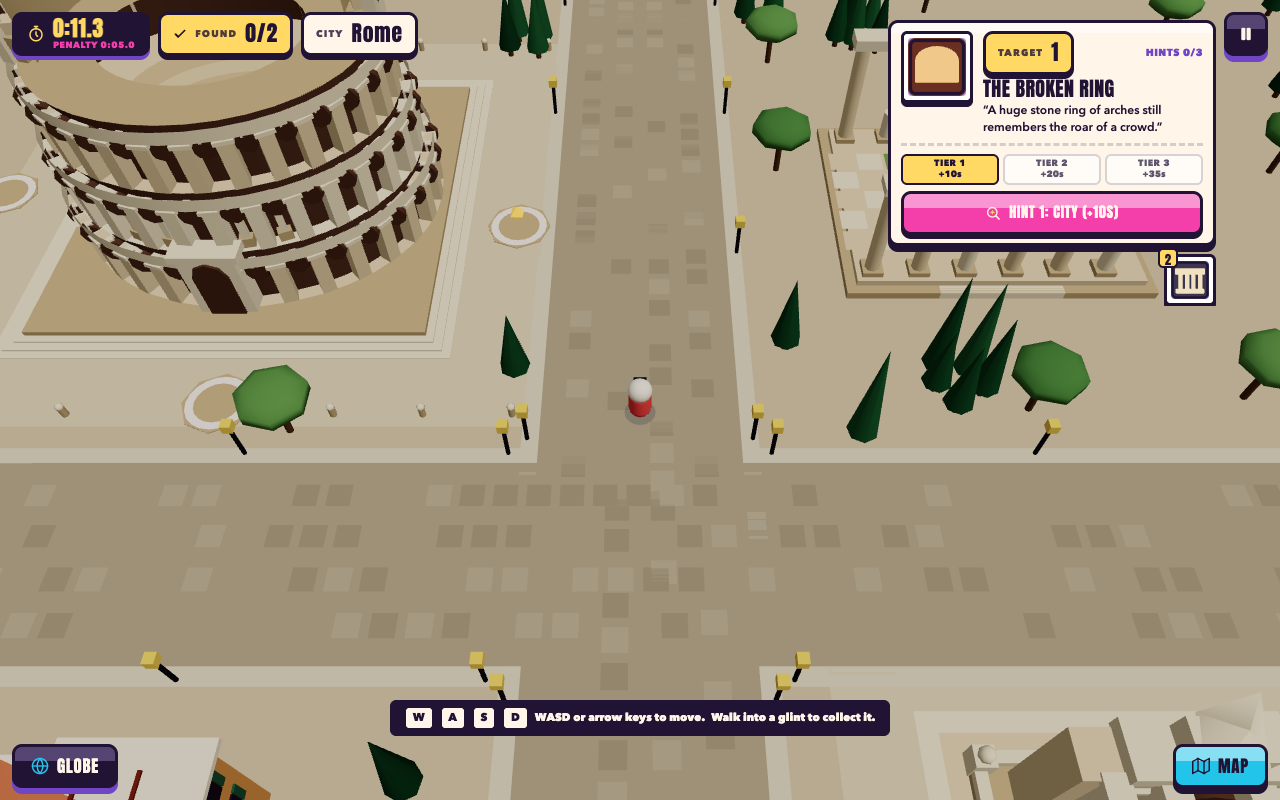
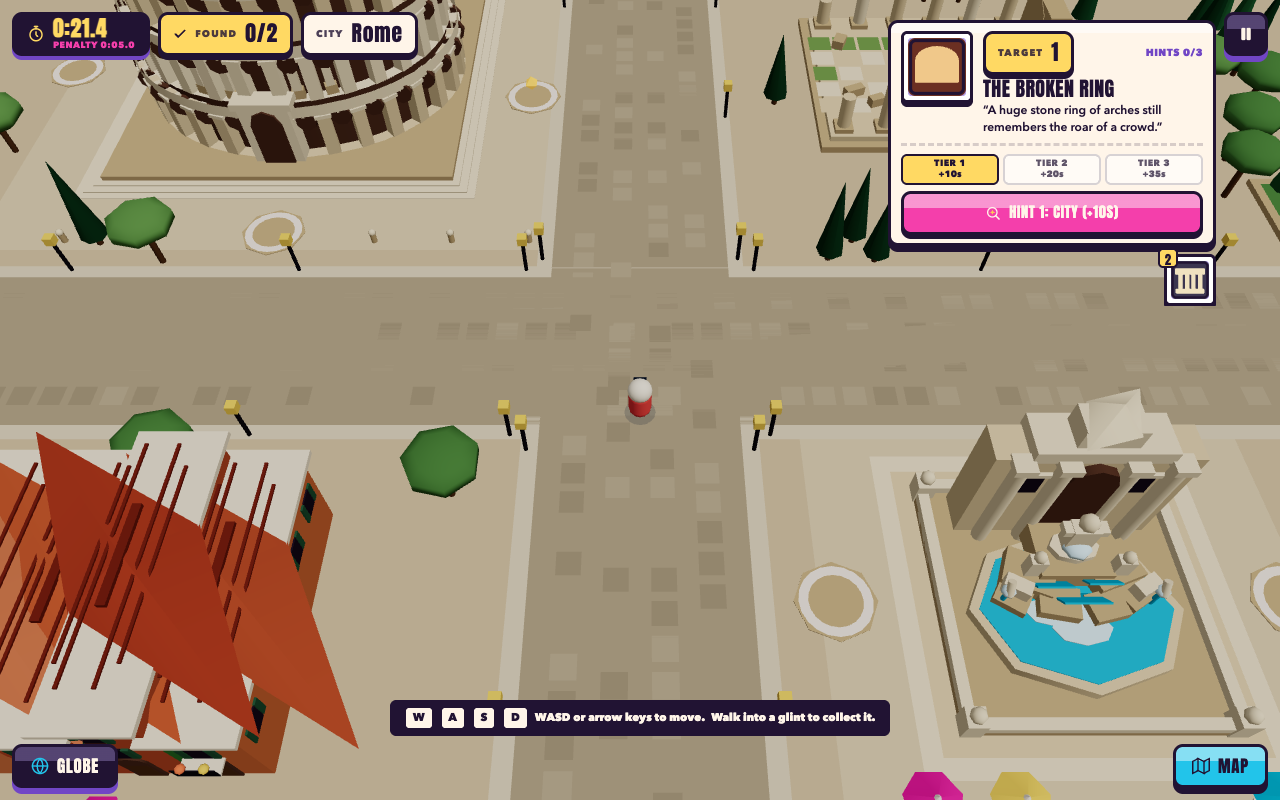
A8: Rome final pass — bounds parapet, campagna outskirts with trees and hills, larger tier statues

diff --git a/src/cities/rome/RomeScene.tsx b/src/cities/rome/RomeScene.tsx
@@ -78,6 +78,8 @@ const SEAT_TONES = ['#e3cda6', '#d6bd93'] as const;
 const IVY_TONE = '#4f8a45';
 const FLOWER_TONES = ['#f43fab', '#ffd963', '#ff8a5b'] as const;
 const RAILING_TONE = '#2b2530';
+const CAMPAGNA_TONE = '#cdb98f';
+const HILL_TONES = ['#9fb07a', '#8ea36e'] as const;
 const SHUTTER_TONE = '#3f6b4f';
 const WINDOW_TONE = '#3a2a3f';
 const TRIM_TONE = '#f9ecd6';
@@ -475,8 +477,8 @@ function buildColosseum(landmark: Landmark, quality: Quality, batches: Batches):
       const szp = cz + Math.sin(angle) * (rz - 0.7 - 0.9);
       const y0 = plinthHeight + TIER_HEIGHT;
       batches.boxes.push({ x: sxp, y: y0 + 0.4, z: szp, sx: 1.0, sy: 0.8, sz: 1.0, ry: -angle, color: TRAVERTINE_DARK });
-      batches.boxes.push({ x: sxp, y: y0 + 1.7, z: szp, sx: 0.7, sy: 1.8, sz: 0.5, ry: -angle, color: TRAVERTINE_LIGHT });
-      batches.spheres.push({ x: sxp, y: y0 + 2.85, z: szp, sx: 0.3, sy: 0.32, sz: 0.3, color: TRAVERTINE_LIGHT });
+      batches.boxes.push({ x: sxp, y: y0 + 2.0, z: szp, sx: 1.0, sy: 2.4, sz: 0.7, ry: -angle, color: TRAVERTINE_LIGHT });
+      batches.spheres.push({ x: sxp, y: y0 + 3.5, z: szp, sx: 0.42, sy: 0.45, sz: 0.42, color: TRAVERTINE_LIGHT });
     }
   }
   // Three shallow steps around the plinth so the base reads from ground level.
@@ -725,6 +727,49 @@ function isClearForProps(definition: CityDefinition, x: number, z: number, keepO
   return Math.hypot(definition.spawn[0] - x, definition.spawn[2] - z) >= SOCKET_CLEAR_RADIUS;
 }
 
+/**
+ * Beyond the playable bounds: a wide campagna ground plane, a low travertine parapet exactly on the
+ * bounds line (the movement clamp already stops the player there) and a scatter of cypresses, pines
+ * and distant hills so the camera never sees the world end. Nothing here is inside the walkable area.
+ */
+function buildOutskirts(bounds: RectXZ, rng: Rng, quality: Quality, batches: Batches): void {
+  const reach = 70;
+  batches.flats.push(flatItem(grow(bounds, reach), -0.01, CAMPAGNA_TONE));
+  const wallHeight = 0.9;
+  const parapets: readonly RectXZ[] = [
+    { minX: bounds.minX - 0.6, maxX: bounds.maxX + 0.6, minZ: bounds.maxZ, maxZ: bounds.maxZ + 0.6 },
+    { minX: bounds.minX - 0.6, maxX: bounds.maxX + 0.6, minZ: bounds.minZ - 0.6, maxZ: bounds.minZ },
+    { minX: bounds.minX - 0.6, maxX: bounds.minX, minZ: bounds.minZ, maxZ: bounds.maxZ },
+    { minX: bounds.maxX, maxX: bounds.maxX + 0.6, minZ: bounds.minZ, maxZ: bounds.maxZ },
+  ];
+  for (const rect of parapets) {
+    batches.boxes.push(boxItem(rect, 0, wallHeight, TRAVERTINE_DARK));
+    batches.boxes.push(boxItem(grow(rect, 0.1), wallHeight, 0.2, TRAVERTINE_LIGHT));
+  }
+  const count = quality === 'low' ? 30 : 90;
+  for (let i = 0; i < count; i += 1) {
+    const side = rng.int(4);
+    const along = rng.next();
+    const out = 4 + rng.next() * (reach - 10);
+    const x = side < 2 ? bounds.minX + along * width(bounds) : side === 2 ? bounds.minX - out : bounds.maxX + out;
+    const z = side >= 2 ? bounds.minZ + along * depth(bounds) : side === 0 ? bounds.maxZ + out : bounds.minZ - out;
+    if (rng.next() < 0.6) {
+      cypress(x, z, 6 + rng.next() * 5, rng.pick(CYPRESS_TONES), batches);
+    } else {
+      const trunk = 3 + rng.next() * 2;
+      batches.cylinders.push({ x, y: trunk / 2, z, sx: 0.6, sy: trunk, sz: 0.6, color: TRUNK_TONE });
+      batches.spheres.push({ x, y: trunk + 1.2, z, sx: 3.4, sy: 1.6, sz: 3.4, color: rng.pick(PINE_TONES) });
+    }
+  }
+  for (let i = 0; i < 10; i += 1) {
+    const angle = (i / 10) * Math.PI * 2 + rng.next() * 0.3;
+    const dist = reach + 20 + rng.next() * 20;
+    const x = centerX(bounds) + Math.cos(angle) * (width(bounds) / 2 + dist);
+    const z = centerZ(bounds) + Math.sin(angle) * (depth(bounds) / 2 + dist);
+    batches.cones.push({ x, y: 4, z, sx: 60 + rng.next() * 40, sy: 8 + rng.next() * 6, sz: 60 + rng.next() * 40, color: HILL_TONES[i % 2]! });
+  }
+}
+
 /** Like isClearForProps but allows piazza edges: only the blocker rectangles, roads, sockets and spawn are excluded. */
 function isPropSafe(definition: CityDefinition, x: number, z: number): boolean {
   if (!contains(grow(definition.bounds, -2), x, z)) return false;
@@ -834,6 +879,7 @@ export function RomeScene({ definition, seed, quality }: CitySceneProps) {
     const landmarkIds = new Set(landmarks.map((landmark) => landmark.id));
 
     batches.flats.push(flatItem(bounds, 0, GROUND_TONE));
+    buildOutskirts(bounds, rng, quality, batches);
     if (quality !== 'low') {
       for (const road of roads) {
         for (const strip of sidewalkStrips(road, 1.2)) batches.flats.push(flatItem(strip, 0.016, KERB_TONE));
